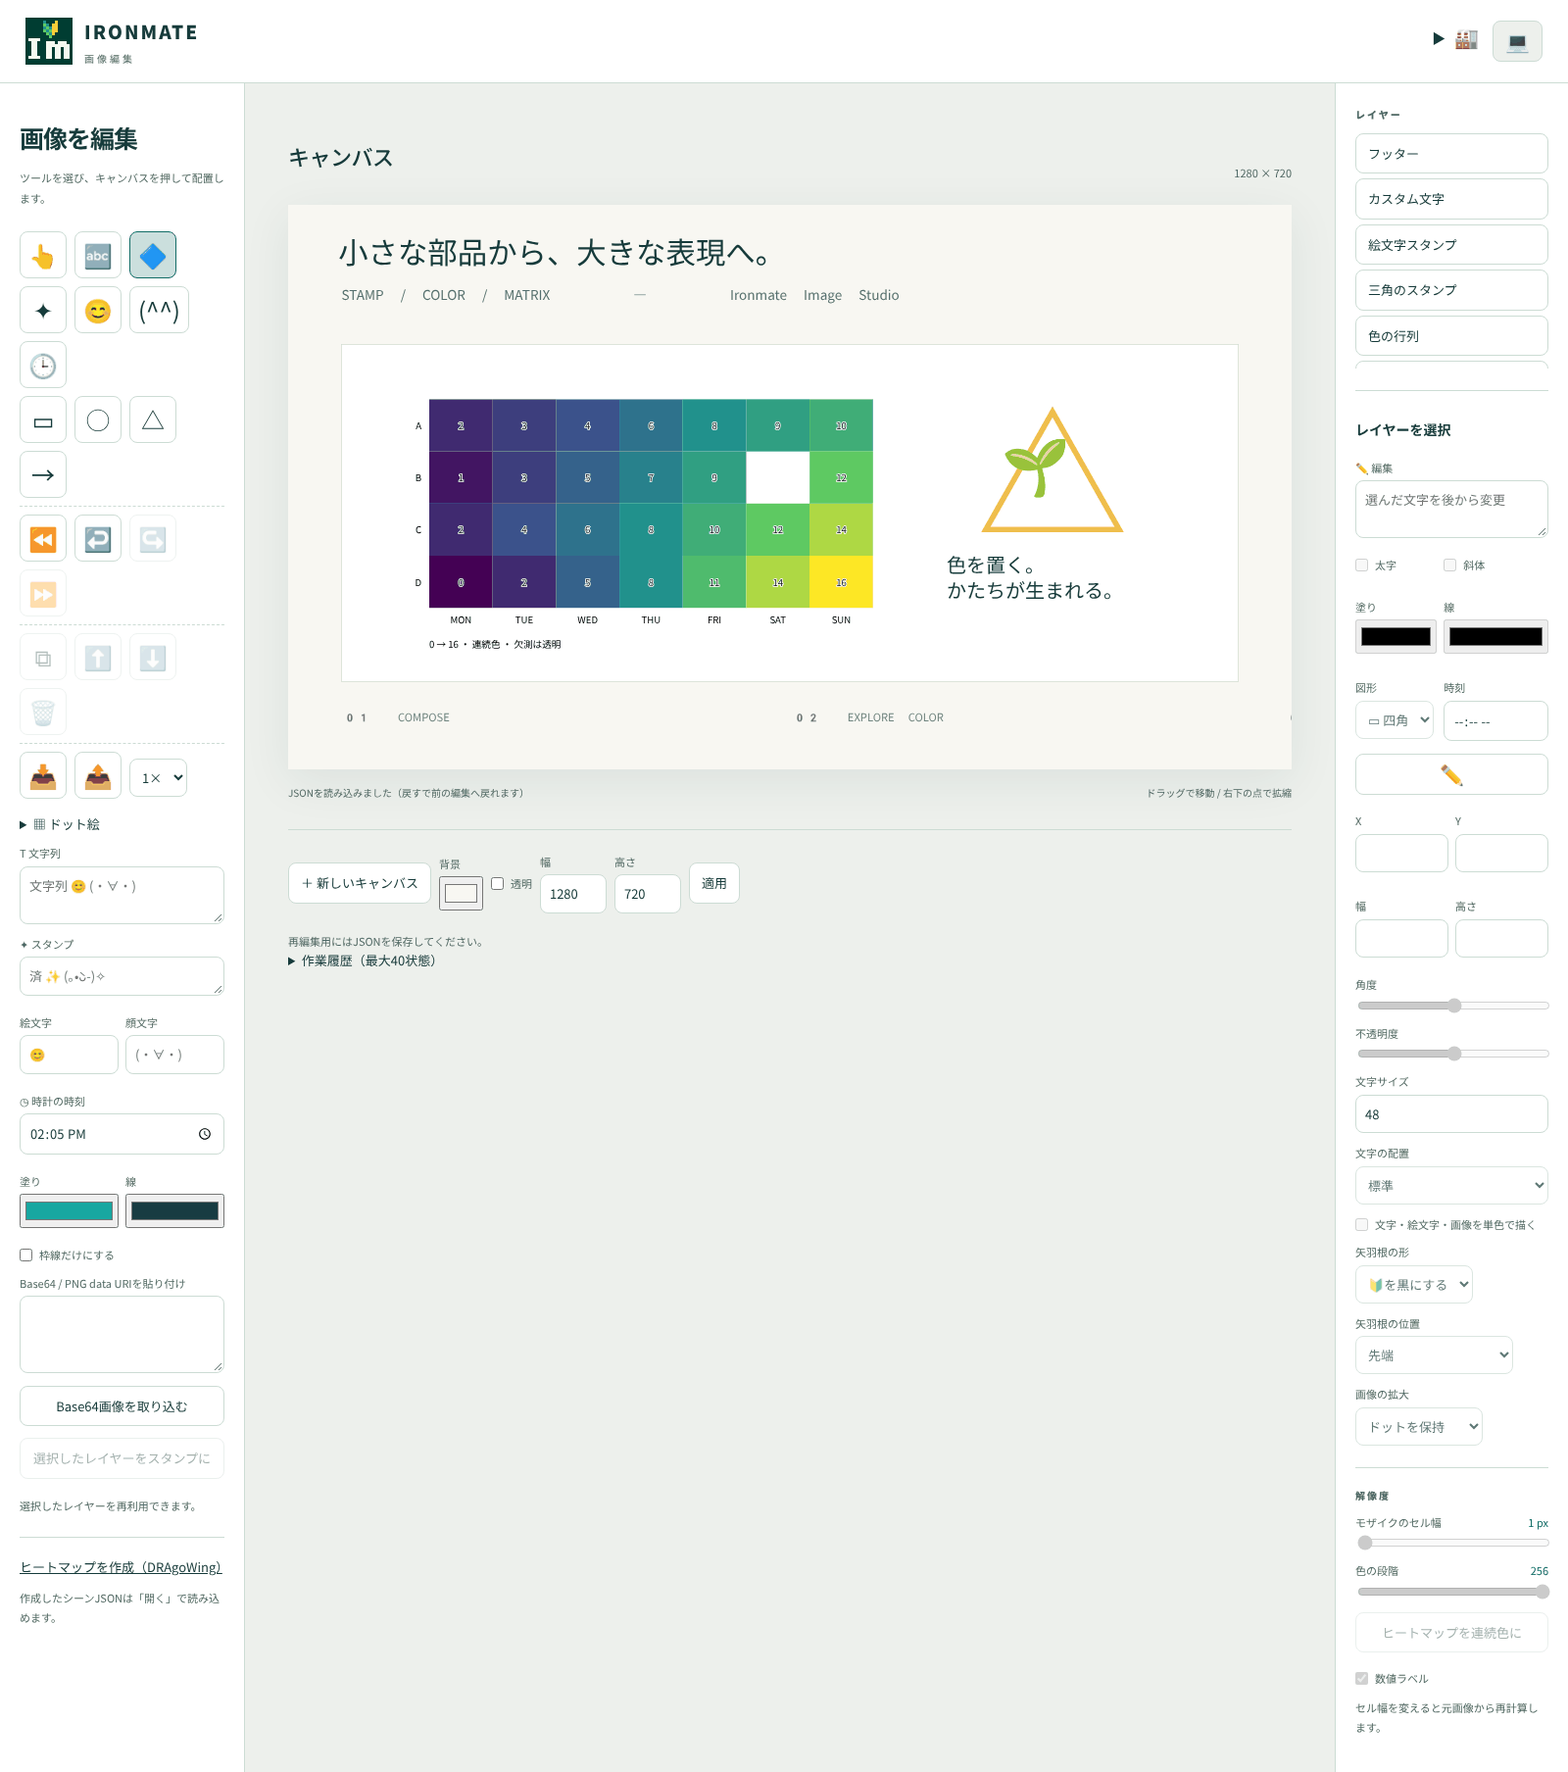
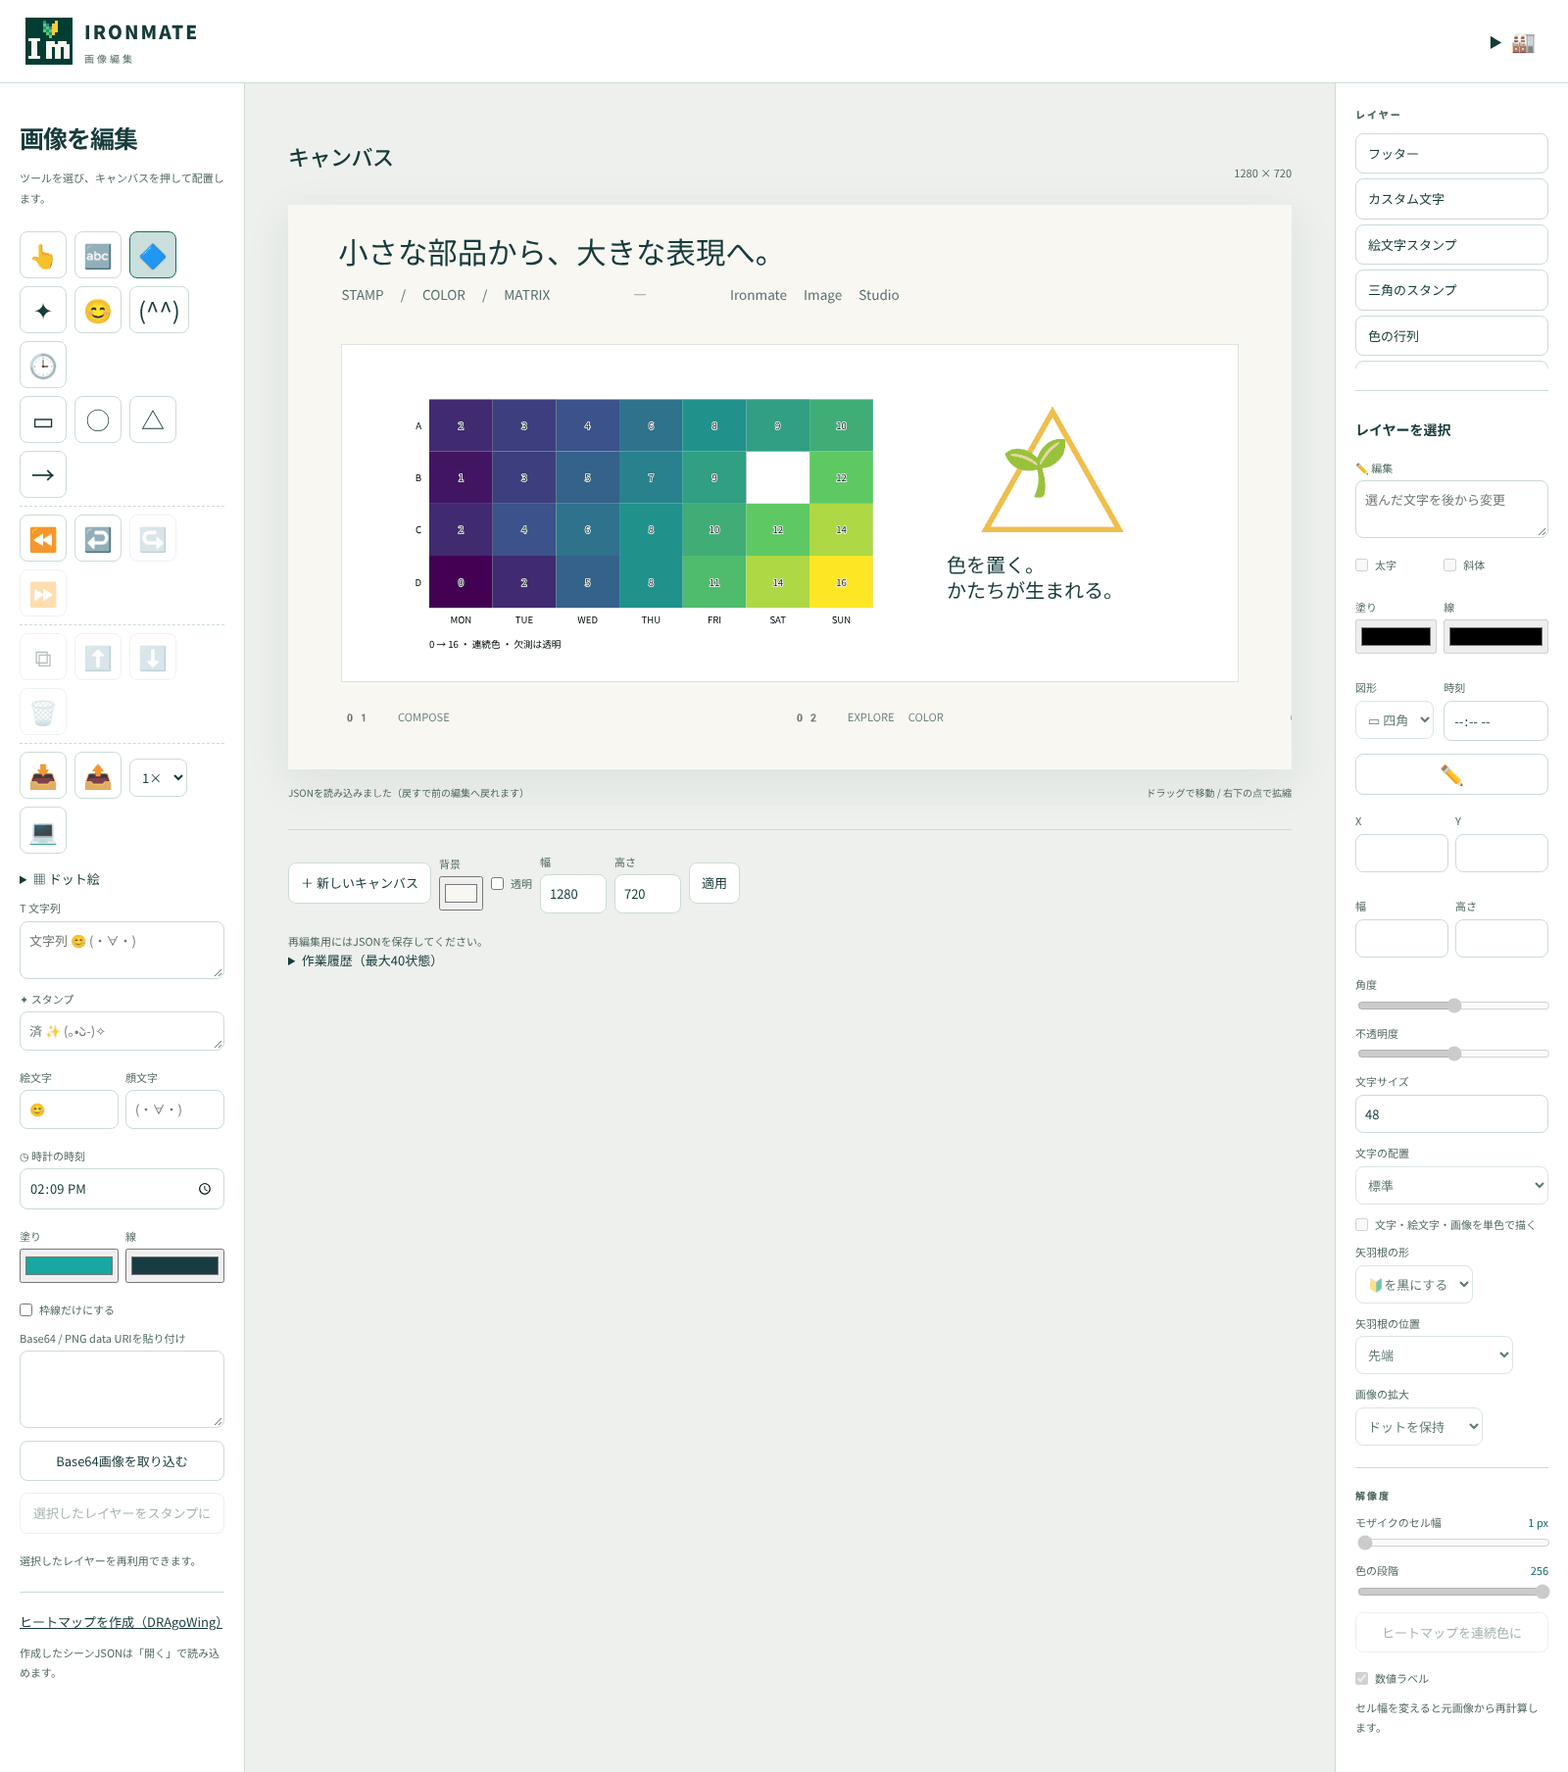
🧭 画像工房の 💻 もファイルの行の終わりへ、ホストの中では自分の上の帯を隠す（2 つの工房を同じ見え方に）
- 💻 ⇄ 📱 は 2 つの工房とも toolbar のファイルの行の終わり（scripts/build_studio_css.py が足す）
- 画像工房の上の帯（ロゴと 🏭）に id="studio-head" を付け、host_rows の replaces に入れた。ポートフォリオの中では
  2 つの工房とも「ポートフォリオのヘッダー 1 つ＋工房の中身」になる。単独で開いたときは今までどおり
- 使わなくなった PSWB_PARTS["labels"] を外した

Claude-Session: https://claude.ai/code/session_01YSgSJHsu35KVtPH5EvLLby

Changed region(s): [[0.0, 0.4646, 0.1562, 0.7434], [0.0, 0.7743, 0.125, 0.9602], [0.9062, 0.0, 1.0, 0.031]]

diff --git a/scripts/build_studio_css.py b/scripts/build_studio_css.py
@@ -54,7 +54,7 @@ def bundles() -> dict[Path, dict]:
     return {STUDIO / "style.css": {"theme": THEME, "extra_css": "\n".join([*map(pysaiyanweboo.css_source, sheets), SLIDE_EDITOR_CSS])}}
 
 
-PSWB = ("stage", "pager", "labels-switch", "toolbar")  # 🧩 the PySaiyanWeBoo components the 📱 page uses
+PSWB = ("stage", "pager", "labels-switch", "toolbar")  # 🧩 the PySaiyanWeBoo components the studios use
 
 
 def classic_script(modules: str) -> str:
@@ -64,14 +64,14 @@ def classic_script(modules: str) -> str:
 
 
 def toolbar(pysaiyanweboo, page: str) -> str:
-    """🧰 A studio's toolbar (``studio_bundle.studio_toolbar(page)``: "slides" or "image") as PySaiyanWeBoo's ``toolbar_html``; the
-    slide editor's file row ends with 💻 ⇄ 📱 (Image Studio's is in its top bar)."""
+    """🧰 A studio's toolbar (``studio_bundle.studio_toolbar(page)``: "slides" or "image") as PySaiyanWeBoo's ``toolbar_html``; both
+    pages' file rows end with 💻 ⇄ 📱 (``labels_switch_html``, the one each page has; a host's ⋯ row stands in for it)."""
     sys.path.insert(0, str(ROOT))
     from ironlib import studio_bundle
     groups, inside, after = studio_bundle.studio_toolbar(page)
+    inside = {**inside, "file": inside.get("file", "") + pysaiyanweboo.labels_switch_html(id="labels-switch")}
     if page == "slides":
-        return pysaiyanweboo.toolbar_html(groups, label="道具", id="phone-toolbar", candidates_id="phone-candidates",
-                                          inside={"file": pysaiyanweboo.labels_switch_html(id="labels-switch")}, after=after)
+        return pysaiyanweboo.toolbar_html(groups, label="道具", id="phone-toolbar", candidates_id="phone-candidates", inside=inside, after=after)
     return "        " + pysaiyanweboo.toolbar_html(groups, label="道具", id="studio-toolbar", candidates_id="studio-candidates",
                                                  inside=inside, after=after) + "\n"
 
@@ -87,7 +87,6 @@ def pswb_parts() -> dict[str, str]:
     commit = pysaiyanweboo.source_commit() or "unknown"
     return {"stage": pysaiyanweboo.stage_html("{slide}", label="スライド", id="phone-stage"),
             "pager": pysaiyanweboo.pager_html(1, label="ページ移動", words=words, keys=True, id="phone-pager"),
-            "labels": pysaiyanweboo.labels_switch_html(id="labels-switch"),
             "slides-toolbar": toolbar(pysaiyanweboo, "slides"),
             "image-toolbar": toolbar(pysaiyanweboo, "image"),
             "js": (f"/* ⬇ pysaiyanweboo {commit[:8]} ({', '.join(PSWB)}): written by {NOTE} from the pinned commit; --check fails when it drifts */\n"
@@ -120,7 +119,7 @@ def with_parts(src: str) -> str:
     lines = lambda html: "".join(f"\n        {part!r}" for part in re.split(r"(?<=>)(?=<)", html))
     block = (f"# ⬇ pysaiyanweboo: {NOTE} writes PSWB_PARTS from the pinned commit (--check fails when it drifts)\n"
              f"PSWB_PARTS = {{\n    \"stage\": ({lines(parts['stage'])}),\n    \"pager\": ({lines(parts['pager'])}),\n"
-             f"    \"labels\": ({lines(parts['labels'])}),\n    \"slides-toolbar\": ({lines(parts['slides-toolbar'])}),\n    \"image-toolbar\": ({lines(parts['image-toolbar'])}),\n}}\n# ⬆ pysaiyanweboo\n")
+             f"    \"slides-toolbar\": ({lines(parts['slides-toolbar'])}),\n    \"image-toolbar\": ({lines(parts['image-toolbar'])}),\n}}\n# ⬆ pysaiyanweboo\n")
     src = replace_region(src, "# ⬇ pysaiyanweboo", "# ⬆ pysaiyanweboo\n", block)
     src = replace_region(src, "/* ⬇ pysaiyanweboo", "/* ⬆ pysaiyanweboo */\n", parts["js"])
     begin, end = "  /* PSWB heatmap-color.js", "  /* End PSWB heatmap-color.js */\n"

diff --git a/image_studio.py b/image_studio.py
@@ -58,20 +58,21 @@ def host_rows(page: str = 'studio') -> str:
     """🧰 What a host's header shows for a studio, as a JSON data block in the page (PySaiyanWeBoo chrome rows): under ⋯ only
     💻 To textual ⇄ 📱 To iconic (PySaiyanWeBoo's ``labels`` key, which stands in for the page's own switch) and, for Image Studio, the
     temporary shelf. Both studios' own 📥 📤 already ask the format (どの形式から？ どの形式に？), so the header lists none. The page
-    carries no header of its own: it answers each key (``ui-chrome-action`` in studio.js) with the act its toolbar runs; png-2 …
-    png-8, svg, json, workspace, base64, open-json and open-workspace still work from a host that sends them. ``replaces`` names the
-    page's own menus, which a host that shows these rows hides; without a host (the local server) they stay."""
+    answers each key (``ui-chrome-action`` in studio.js) with the act its toolbar runs; png-2 … png-8, svg, json, workspace, base64,
+    open-json and open-workspace still work from a host that sends them. ``replaces`` names what a host that shows these rows hides:
+    each studio's 💻 at the end of its file row, and Image Studio's own top bar (the logo and 🏭), so inside a host both studios are
+    just their work under the host's one header; without a host (the local server) they stay."""
     rows = lambda pairs: [{'label': label, 'key': key} for label, key in pairs]
     labels = ('💻 To textual ⇄ 📱 To iconic', 'labels')
     spec = ({'screen': rows([labels]), 'replaces': '#labels-switch'} if page == 'slides' else
-            {'screen': rows([('📋 クリップボード・シェルフ', 'shelf'), labels]), 'replaces': '#studios,#labels-switch'})
+            {'screen': rows([('📋 クリップボード・シェルフ', 'shelf'), labels]), 'replaces': '#studio-head,#labels-switch'})
     return '<script type="application/json" id="ui-chrome-rows">' + json.dumps(spec, ensure_ascii=False).replace('<', '\\u003c') + '</script>'
 
 
 
 def public_assets():
     """Explicit publication allowlist; no user scenes, globbing, or local images."""
-    from ironlib.studio_bundle import BRAND_HTML, BROWSER_TASK_JS, PHONE_HTML, PSWB_PARTS, RECORDS_JS, STUDIO_HTML, STUDIO_JS, STYLE_CSS, TOOLS_HTML
+    from ironlib.studio_bundle import BRAND_HTML, BROWSER_TASK_JS, PHONE_HTML, RECORDS_JS, STUDIO_HTML, STUDIO_JS, STYLE_CSS, TOOLS_HTML
     names = ('brand/mono.svg', 'brand/dark-green.svg',
              'brand/famicom.svg', 'brand/gameboy.svg', 'brand/pixel-3d.svg',
              'brand/manifest.webmanifest', 'brand/apple-touch-icon.png', 'brand/app-192.png',
@@ -79,10 +80,7 @@ def public_assets():
              'brand/icon.svg', 'brand/heatmap.svg', 'brand/hero.svg', 'brand/favicon.ico', 'brand/favicon-16.png',
              'brand/favicon-32.png', 'brand/favicon-48.png', 'brand/icon-192.png')
     assets = {name: (ROOT / 'studio' / name).read_bytes() for name in names}
-    # 💻 ⇄ 📱 the same switch as the slide editor's, at the end of the top actions (a host's ⋯ row stands in for it)
-    page = STUDIO_HTML.replace('<header>', host_rows() + '<header>', 1)
-    page = page.replace('      </div>\n    </header>', '        ' + PSWB_PARTS['labels'] + '\n      </div>\n    </header>', 1)
-    assets['index.html'] = page.encode('utf-8')
+    assets['index.html'] = STUDIO_HTML.replace('<header id="studio-head">', host_rows() + '<header id="studio-head">', 1).encode('utf-8')
     assets['style.css'] = STYLE_CSS.encode('utf-8')
     from scripts.pages_catalog import catalog_script
     assets['studio.js'] = STUDIO_JS.encode('utf-8') + b'\n' + catalog_script()

diff --git a/ironlib/studio_bundle.py b/ironlib/studio_bundle.py
@@ -113,7 +113,7 @@ STUDIO_HTML = r"""<!doctype html>
     <script defer src="studio.js"></script>
   </head>
   <body class="ui-elements" data-ui-theme="green" data-page="studio">
-    <header>
+    <header id="studio-head">
       <div class="brand"><img src="brand/heatmap.svg" width="48" height="48" alt="I’m — 🔰がアポストロフィのIronmateロゴ" /><div>IRONMATE <span>画像編集</span></div></div>
       <div class="top-actions">
         <details id="studios">
@@ -4047,8 +4047,6 @@ PSWB_PARTS = {
         '<button type="button" data-ui-pager-part="last" data-ui-pager-in="ends" data-ui-pager-go="last" aria-label="最後のページ" title="最後のページ" disabled>⏭</button>'
         '<button type="button" data-ui-pager-part="down" data-ui-pager-in="dpad" data-ui-pager-go="last" aria-label="最後のページ" title="最後のページ" disabled>⬇</button>'
         '</div>'),
-    "labels": (
-        '<button type="button" class="ui-button" id="labels-switch" data-ui-labels-switch data-ui-word="📱 To iconic" aria-pressed="false" aria-label="💻 To textual ⇄ 📱 To iconic" title="💻 To textual ⇄ 📱 To iconic">💻</button>'),
     "slides-toolbar": (
         '<div class="ui-toolbar" id="phone-toolbar" role="toolbar" aria-label="道具">'
         '<div class="ui-toolbar-row" data-ui-group="create">'
@@ -4158,6 +4156,7 @@ PSWB_PARTS = {
         '<option value="4">4×</option>'
         '<option value="8">8×</option>'
         '</select>'
+        '<button type="button" class="ui-button" id="labels-switch" data-ui-labels-switch data-ui-word="📱 To iconic" aria-pressed="false" aria-label="💻 To textual ⇄ 📱 To iconic" title="💻 To textual ⇄ 📱 To iconic">💻</button>'
         '</div>'
         '<input id="open" type="file" accept=".json" aria-label="JSONを開く" hidden />'
         '<input id="open-workspace" type="file" accept=".json,application/json" aria-label="作業履歴を開く" hidden />'
@@ -4174,7 +4173,8 @@ def studio_toolbar(page: str) -> tuple[list, dict[str, str], dict[str, str]]:
     ⧉ a copy of the selected, 📑 of the page). ``page`` is "slides" (the one slide editor) or "image" (Image Studio) and picks the rows:
     make / adjust / change (/ pages) / file (/ detail). 🔷 😊 (^^) 🎨 ↻ open candidates under their row; 📥 どの形式から？ 📤 どの形式に？
     name each page's formats in words and hide after a pick (Image Studio's are the keys a host's header sends, ``image_studio.host_rows``).
-    ``inside`` and ``after`` place each page's own pieces: Image Studio's output scale beside 📤 and its file choosers; the slide editor's
+    ``inside`` and ``after`` place each page's own pieces: Image Studio's output scale beside 📤 and its file choosers (💻 ⇄ 📱 ends both
+    pages' file rows, scripts/build_studio_css.py adds it); the slide editor's
     📚 layers, 🗂 pages, inspector and file choosers. scripts/build_studio_css.py writes the markup into PSWB_PARTS ("slides-toolbar",
     "image-toolbar"); --check fails when this table and that markup drift."""
     from html import escape

diff --git a/tests/test_studio.py b/tests/test_studio.py
@@ -1059,8 +1059,10 @@ def test_studios_declare_the_rows_a_hosts_header_shows_and_carry_no_header_of_th
     assert 'data-ui-chrome' not in html and html.count('id="ui-chrome-rows"') == 1                      # the header is the host's
     spec = json.loads(re.search(r'<script type="application/json" id="ui-chrome-rows">(.*?)</script>', html, re.S)[1])
     assert spec == {'screen': [{'label': '📋 クリップボード・シェルフ', 'key': 'shelf'}, {'label': '💻 To textual ⇄ 📱 To iconic', 'key': 'labels'}],
-                    'replaces': '#studios,#labels-switch'}
+                    'replaces': '#studio-head,#labels-switch'}
     assert 'id="labels-switch" data-ui-labels-switch' in html and 'PySaiyanWeBoo.bindLabels()' in b.STUDIO_JS   # 💻 ⇄ 📱 bindLabels answers it
+    head = re.search(r'<header id="studio-head">.*?</header>', html, re.S)[0]
+    assert 'labels-switch' not in head and html.index('id="labels-switch"') > html.index('data-ui-group="file"')   # 💻 ends the file row, as on the slide editor
     assert {'shelf', 'png', 'svg', 'json', 'workspace', 'base64', 'open-json', 'open-workspace'} <= acts, acts
     assert re.fullmatch(r'#[a-z-]+(,#[a-z-]+)*', spec['replaces']) and all(f'id="{i[1:]}"' in html for i in spec['replaces'].split(','))
     slides = json.loads(re.search(r'id="ui-chrome-rows">(.*?)</script>', assets['slides/index.html'].decode('utf-8'), re.S)[1])
@@ -1162,8 +1164,7 @@ def test_phone_page_is_emoji_only_and_every_control_is_bound():
     parts = b.PSWB_PARTS['slides-toolbar']
     assert parts in html and 'id="phone-toolbar"' in parts and 'id="phone-candidates"' in parts and set(after) == {'adjust', 'pages', 'detail'}
     assert 'PySaiyanWeBoo.bindToolbar($("phone-toolbar")' in b.STUDIO_JS and 'function offer(' not in b.STUDIO_JS
-    assert b.PSWB_PARTS['labels'] in html and html.index(b.PSWB_PARTS['labels']) > html.index('data-ui-group="file"')
-    assert 'id="labels-switch" data-ui-labels-switch' in b.PSWB_PARTS['labels']
+    assert html.count('id="labels-switch" data-ui-labels-switch') == 1 and html.index('id="labels-switch"') > html.index('data-ui-group="file"')
     assert "PySaiyanWeBoo.bindLabels();" in b.STUDIO_JS
     words = re.compile(r'[\u3040-\u30ff\u4e00-\u9fffA-Za-z0-9]')
     for item in parser.items:

diff --git a/docs/image-studio.md b/docs/image-studio.md
@@ -21,7 +21,7 @@ On GitHub Pages it runs without Python. Only fixed HTML/JS/CSS is published; ima
    Drag-scaling text also changes the font size. Change what is already placed with `✏ 編集` (edit) on the right: the words, `太字` (bold), `斜体` (italic), fill and line colors, the shape, a clock's time.
 6. Edit layers with `前へ／後ろへ` (forward / backward) for stacking order and `複製／削除` (duplicate / delete). Undo/redo keeps up to 40 states.
    Loading JSON and `新しいキャンバス` (new canvas) are also recorded in history. The selection frame is not included in exported images.
-7. Download PNG or SVG from `📤` (どの形式に？ to which format?): it lists PNG, SVG, JSON, 作業履歴 (history) and Base64 in words, and a pick hides the list again; the `1×` beside it is the output scale. `📥` (どの形式から？ from which format?) lists 画像, カメラ, クリップボード (an image or image text), JSON, 作業履歴 and the clipboard shelf, the first three in the same order as the slide editor's. Use JSON for re-editing; it contains original images, values and layers. The tools are one toolbar on the left, the same PySaiyanWeBoo `toolbar` as the slide editor's, from one table (`studio_toolbar`: an act has one face and one word on both pages): rows of make (`👆 🔤 🔷 ✦ 😊 (^^) 🕒`), adjust (`⏪ ↩ ↪ ⏩`), change (`⧉ 🗑 ⬆ ⬇`: copy, delete, one step forward / back) and file (`📥 📤`), with a dashed line between them; `🔷 😊 (^^)` open their candidates right under their row. The buttons show emoji by default; `💻` (at the end of the top bar, or the `⋯` row) swaps them for short words on the same page, and `📱` swaps back; the choice is remembered. When the studio is shown inside a site with a shared header (the portfolio), the page carries no header of its own: it declares its rows as data (`image_studio.host_rows`: the shelf and `💻 To textual ⇄ 📱 To iconic` under `⋯`), and a key from the header runs the same act as the toolbar.
+7. Download PNG or SVG from `📤` (どの形式に？ to which format?): it lists PNG, SVG, JSON, 作業履歴 (history) and Base64 in words, and a pick hides the list again; the `1×` beside it is the output scale. `📥` (どの形式から？ from which format?) lists 画像, カメラ, クリップボード (an image or image text), JSON, 作業履歴 and the clipboard shelf, the first three in the same order as the slide editor's. Use JSON for re-editing; it contains original images, values and layers. The tools are one toolbar on the left, the same PySaiyanWeBoo `toolbar` as the slide editor's, from one table (`studio_toolbar`: an act has one face and one word on both pages): rows of make (`👆 🔤 🔷 ✦ 😊 (^^) 🕒`), adjust (`⏪ ↩ ↪ ⏩`), change (`⧉ 🗑 ⬆ ⬇`: copy, delete, one step forward / back) and file (`📥 📤`), with a dashed line between them; `🔷 😊 (^^)` open their candidates right under their row. The buttons show emoji by default; `💻` (at the end of the file row, as on the slide editor, or the `⋯` row) swaps them for short words on the same page, and `📱` swaps back; the choice is remembered. When the studio is shown inside a site with a shared header (the portfolio), the page carries no header of its own: it declares its rows as data (`image_studio.host_rows`: the shelf and `💻 To textual ⇄ 📱 To iconic` under `⋯`), a key from the header runs the same act as the toolbar, and the page's own top bar (the logo and `🏭`) and `💻` are hidden, so both studios are just their work under the one header.
    This JSON includes original images, so sharing it shares them too. Use PNG to share after applying a mosaic.
 
 PNG defaults to 1280×720, usable as a 16:9 image for documents. The background can be transparent.
